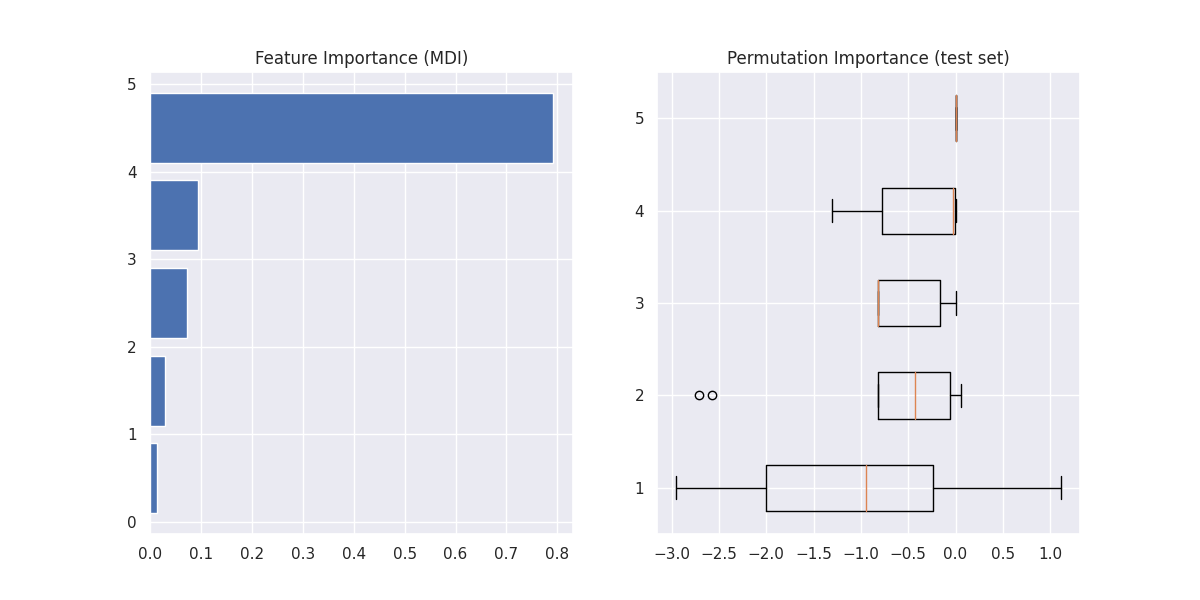
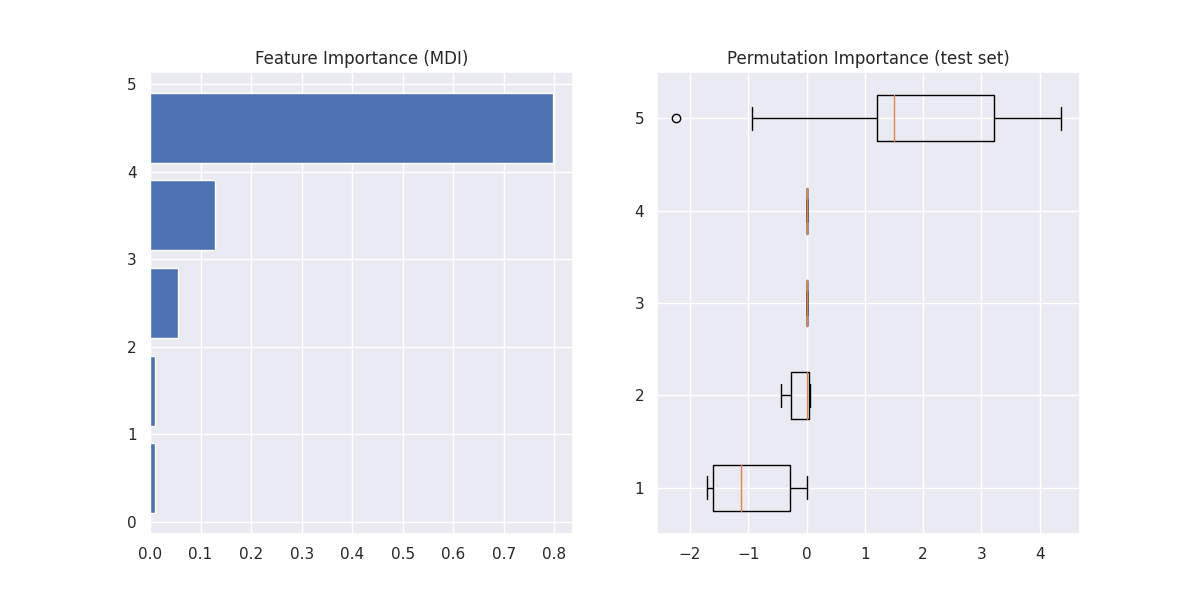
added thursdays weighting in GBR model

diff --git a/model.py b/model.py
@@ -68,12 +68,14 @@ def prediction_from_gbr(reg, df, start):
     # print(df['day_of_week_Tue'].sum())
     # print(df['day_of_week_Wed'].sum())
     # print(df['day_of_week_Thu'].sum())
-    # assign day_of_week: one line for Mondays, one line for Tuesdays
+    # assign day_of_week: one line for Mondays, one line for Tuesdays, one line for Thursdays
     mondays  = np.transpose(np.array([t, np.ones(num) , np.zeros(num), np.zeros(num), np.zeros(num)]))
     tuesdays = np.transpose(np.array([t, np.zeros(num), np.ones(num) , np.zeros(num), np.zeros(num)]))
+    thursdays = np.transpose(np.array([t, np.zeros(num), np.zeros(num) , np.zeros(num), np.ones(num)]))
     mon_line = reg.predict(mondays)
     tue_line = reg.predict(tuesdays)
-    x = (mondays + tuesdays)/2
+    thu_line = reg.predict(thursdays)
+    x = (mondays + tuesdays + thursdays)/3
     x_t = x.T 
-    y = (mon_line + tue_line)/2
+    y = (mon_line + tue_line + thu_line)/3
     return x_t[0], y
